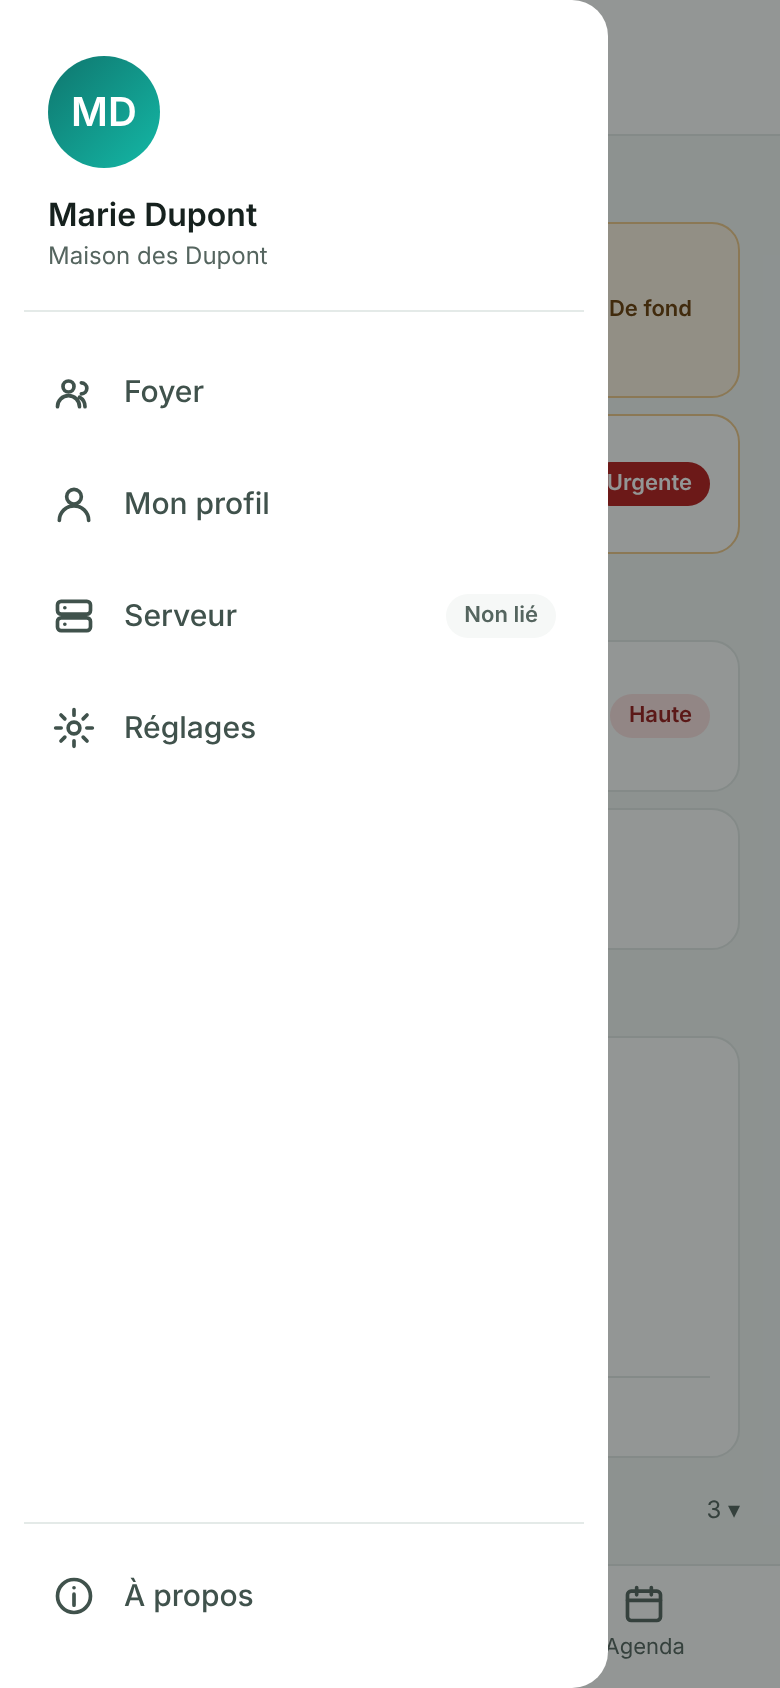
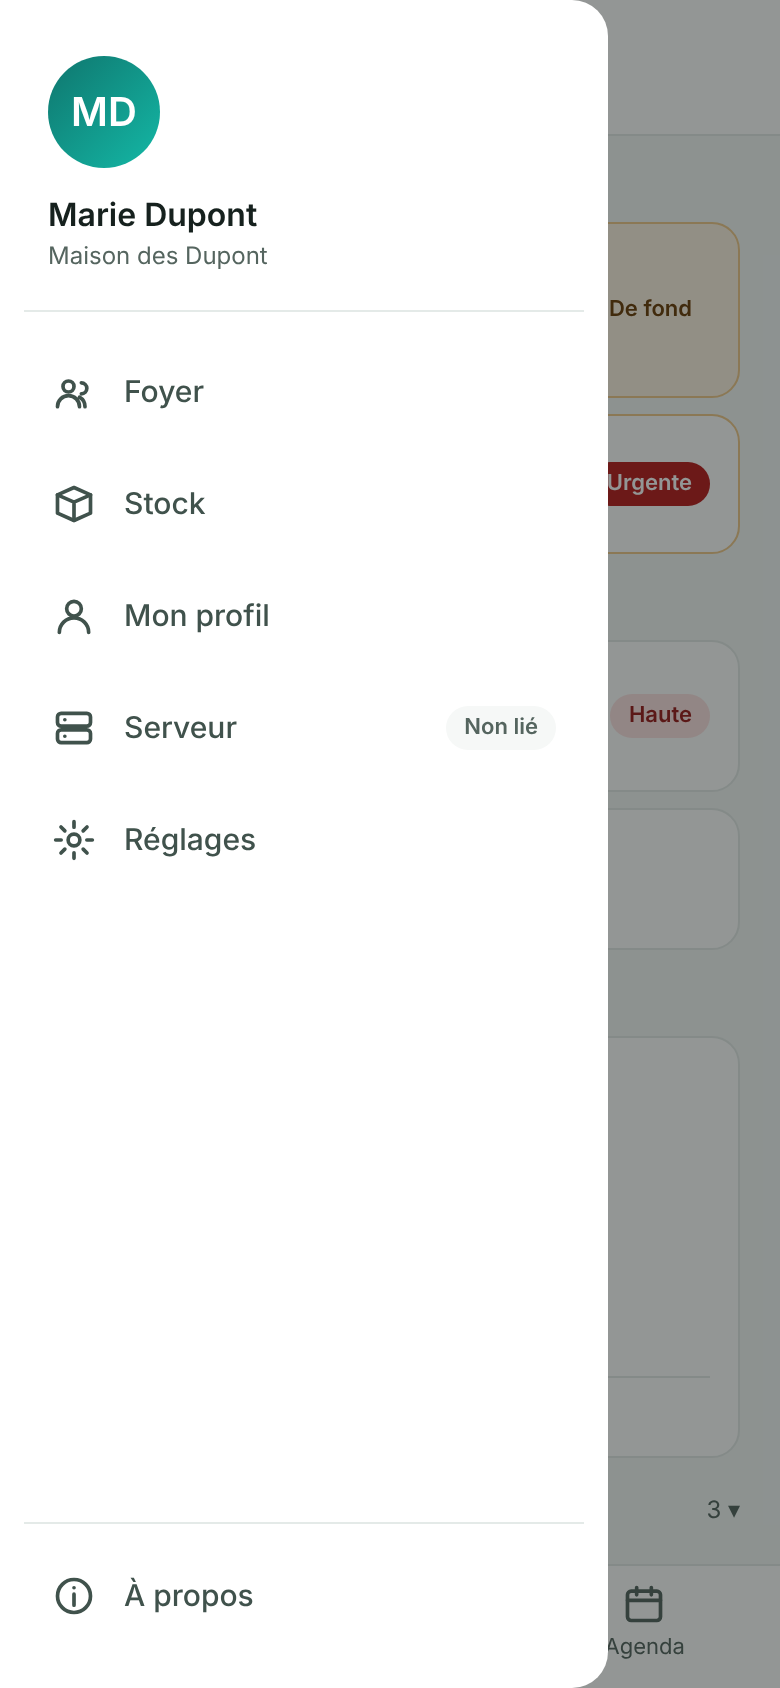
docs(maquettes): plugin Gestion de stock dans l'app — tableaux, déclarer une sortie
Claude-Session: https://claude.ai/code/session_01CwM8UZavZyFdh7jkANxEp5

diff --git a/docs/mockups/30-stock.html b/docs/mockups/30-stock.html
@@ -1,0 +1,30 @@
+<!doctype html>
+<html lang="fr"><head><meta charset="utf-8"><title>Stock</title><link rel="stylesheet" href="app.css"><style>
+.vig{flex:none;width:38px;height:38px;border-radius:10px;display:flex;align-items:center;justify-content:center;color:#fff}
+.vig.petite{width:26px;height:26px;border-radius:7px}
+.vig.vide{background:var(--surface-douce);border:1px dashed var(--trait-net);color:var(--gris)}
+.pas{width:32px;height:32px;border-radius:10px;border:1px solid var(--trait-net);display:flex;align-items:center;justify-content:center;font-weight:700;background:var(--surface)}
+.qte{min-width:24px;text-align:center;font-weight:700;font-size:16px}
+.qte.bas{color:var(--alerte)}
+.puces{display:flex;gap:8px;overflow:hidden}
+.puces span{flex:none;display:inline-flex;align-items:center;gap:7px;height:38px;padding:0 13px 0 6px;border-radius:999px;border:1px solid var(--trait-net);background:var(--surface);font-size:14px}
+.puces span.actif{border:2px solid var(--accent);background:var(--accent-doux);font-weight:600}
+.fab-large{position:absolute;right:20px;bottom:24px;height:56px;padding:0 20px;border-radius:18px;background:var(--accent);color:#fff;display:flex;align-items:center;gap:10px;font-weight:600;font-size:15px;box-shadow:0 6px 16px rgba(15,118,110,.35)}
+.barre-bas{flex:none;display:flex;align-items:center;gap:12px;padding:12px 20px 18px;background:var(--surface);border-top:1px solid var(--trait)}
+</style></head>
+<body style="position:relative">
+  <header class="entete">
+    <div class="ligne">
+      <svg viewBox="0 0 24 24" width="26" height="26" fill="none" stroke="currentColor" stroke-width="2" stroke-linecap="round" stroke-linejoin="round"><path d="M4 7h16M4 12h16M4 17h16"/></svg>
+      <div style="flex:1"><h1>Stock</h1></div>
+      <span class="bouton" style="min-height:44px;padding:0 14px">+ Article</span>
+    </div>
+  </header>
+  <div class="corps" style="gap:12px;padding-bottom:90px">
+    <div class="puces"><span class="actif"><span class="vig petite" style="background:#0F766E"><svg viewBox="0 0 24 24" width="14" height="14" fill="none" stroke="currentColor" stroke-width="2" stroke-linecap="round" stroke-linejoin="round"><ellipse cx="12" cy="5" rx="7" ry="2.5"/><path d="M5 5v14c0 1.4 3.1 2.5 7 2.5s7-1.1 7-2.5V5"/></svg></span>Garde-manger</span><span><span class="vig petite" style="background:#7C3AED"><svg viewBox="0 0 24 24" width="14" height="14" fill="none" stroke="currentColor" stroke-width="2" stroke-linecap="round" stroke-linejoin="round"><rect x="4" y="9" width="16" height="11" rx="3"/><path d="M9 9V6h6v3M12 3v3"/></svg></span>Salle de bain</span><span><span class="vig petite" style="background:#475569"><svg viewBox="0 0 24 24" width="14" height="14" fill="none" stroke="currentColor" stroke-width="2" stroke-linecap="round" stroke-linejoin="round"><path d="M14.7 6.3a4 4 0 0 0-5.4 5.4L3 18l3 3 6.3-6.3a4 4 0 0 0 5.4-5.4l-2.4 2.4-2.6-.4-.4-2.6z"/></svg></span>Bricolage</span></div>
+    <div class="filtres"><span class="actif">Tout · 6</span><span>À racheter · 2</span><span>Bientôt périmé · 2</span></div>
+    <div class="carte" style="padding:12px"><div class="ligne"><span class="vig" style="background:#78350F"><svg viewBox="0 0 24 24" width="18" height="18" fill="none" stroke="currentColor" stroke-width="2" stroke-linecap="round" stroke-linejoin="round"><path d="M4 8h13v6a5 5 0 0 1-5 5H9a5 5 0 0 1-5-5zM17 10h2a2 2 0 0 1 0 4h-2M8 3v2M12 3v2"/></svg></span><div style="flex:1;min-width:0"><h3>Café en grains</h3><p class="muet">Marque du torréfacteur</p></div><div style="display:flex;flex-direction:column;align-items:center;gap:2px"><div class="ligne" style="gap:6px"><span class="pas">−</span><span class="qte bas">1</span><span class="pas">+</span></div><span class="muet" style="font-size:11px">min 2</span></div></div></div><div class="carte" style="padding:12px"><div class="ligne"><span class="vig" style="background:linear-gradient(135deg,#d97706,#fbbf24)"></span><div style="flex:1;min-width:0"><h3>Huile d’olive</h3><p class="muet">Avril 2027</p></div><div style="display:flex;flex-direction:column;align-items:center;gap:2px"><div class="ligne" style="gap:6px"><span class="pas">−</span><span class="qte">2</span><span class="pas">+</span></div><span class="muet" style="font-size:11px">min 1</span></div></div></div><div class="carte" style="padding:12px"><div class="ligne"><span class="vig" style="background:#B91C1C"><svg viewBox="0 0 24 24" width="18" height="18" fill="none" stroke="currentColor" stroke-width="2" stroke-linecap="round" stroke-linejoin="round"><ellipse cx="12" cy="5" rx="7" ry="2.5"/><path d="M5 5v14c0 1.4 3.1 2.5 7 2.5s7-1.1 7-2.5V5"/></svg></span><div style="flex:1;min-width:0"><h3>Tomates pelées</h3><p class="muet" style="color:var(--alerte-encre)">Périment dans 9 jours</p></div><div style="display:flex;flex-direction:column;align-items:center;gap:2px"><div class="ligne" style="gap:6px"><span class="pas">−</span><span class="qte">6</span><span class="pas">+</span></div><span class="muet" style="font-size:11px">min 4</span></div></div></div><div class="carte" style="padding:12px"><div class="ligne"><span class="vig" style="background:#65A30D"><svg viewBox="0 0 24 24" width="18" height="18" fill="none" stroke="currentColor" stroke-width="2" stroke-linecap="round" stroke-linejoin="round"><path d="M12 7c-2-2-7-1.5-7 4 0 5 3 9 5 9 1 0 1.5-.5 2-.5s1 .5 2 .5c2 0 5-4 5-9 0-5.5-5-6-7-4zM12 7c0-2 1-4 3-4"/></svg></span><div style="flex:1;min-width:0"><h3>Compote</h3><p class="muet" style="color:var(--alerte-encre)">Périmée depuis 2 jours</p></div><div style="display:flex;flex-direction:column;align-items:center;gap:2px"><div class="ligne" style="gap:6px"><span class="pas">−</span><span class="qte bas">3</span><span class="pas">+</span></div><span class="muet" style="font-size:11px">min 6</span></div></div></div><div class="carte" style="padding:12px"><div class="ligne"><span class="vig vide"><svg viewBox="0 0 24 24" width="16" height="16" fill="none" stroke="currentColor" stroke-width="2" stroke-linecap="round" stroke-linejoin="round"><path d="M3 7l9-4 9 4v10l-9 4-9-4z"/><path d="M3 7l9 4 9-4M12 11v10"/></svg></span><div style="flex:1;min-width:0"><h3>Sel fin</h3></div><div style="display:flex;flex-direction:column;align-items:center;gap:2px"><div class="ligne" style="gap:6px"><span class="pas">−</span><span class="qte">1</span><span class="pas">+</span></div></div></div></div>
+  </div>
+  <!-- Le geste le plus fréquent : ce qui sort. Il a son bouton à lui. -->
+  <div class="fab-large"><svg viewBox="0 0 24 24" width="22" height="22" fill="none" stroke="currentColor" stroke-width="2" stroke-linecap="round" stroke-linejoin="round"><path d="M3 7l9-4 9 4v4"/><path d="M3 7v10l9 4 4-1.8M3 7l9 4 9-4M12 11v10"/><path d="M16 17h6M19 14l3 3-3 3"/></svg>Déclarer une sortie</div>
+</body></html>

diff --git a/docs/mockups/31-stock-sortie.html b/docs/mockups/31-stock-sortie.html
@@ -1,0 +1,32 @@
+<!doctype html>
+<html lang="fr"><head><meta charset="utf-8"><title>Déclarer une sortie</title><link rel="stylesheet" href="app.css"><style>
+.vig{flex:none;width:38px;height:38px;border-radius:10px;display:flex;align-items:center;justify-content:center;color:#fff}
+.vig.petite{width:26px;height:26px;border-radius:7px}
+.vig.vide{background:var(--surface-douce);border:1px dashed var(--trait-net);color:var(--gris)}
+.pas{width:32px;height:32px;border-radius:10px;border:1px solid var(--trait-net);display:flex;align-items:center;justify-content:center;font-weight:700;background:var(--surface)}
+.qte{min-width:24px;text-align:center;font-weight:700;font-size:16px}
+.qte.bas{color:var(--alerte)}
+.puces{display:flex;gap:8px;overflow:hidden}
+.puces span{flex:none;display:inline-flex;align-items:center;gap:7px;height:38px;padding:0 13px 0 6px;border-radius:999px;border:1px solid var(--trait-net);background:var(--surface);font-size:14px}
+.puces span.actif{border:2px solid var(--accent);background:var(--accent-doux);font-weight:600}
+.fab-large{position:absolute;right:20px;bottom:24px;height:56px;padding:0 20px;border-radius:18px;background:var(--accent);color:#fff;display:flex;align-items:center;gap:10px;font-weight:600;font-size:15px;box-shadow:0 6px 16px rgba(15,118,110,.35)}
+.barre-bas{flex:none;display:flex;align-items:center;gap:12px;padding:12px 20px 18px;background:var(--surface);border-top:1px solid var(--trait)}
+</style></head>
+<body>
+  <header class="entete">
+    <div class="ligne">
+      <span style="font-size:20px;color:var(--gris)">×</span>
+      <h1 style="font-size:20px">Déclarer une sortie</h1>
+    </div>
+  </header>
+  <div class="corps" style="gap:10px">
+    <p class="muet" style="font-size:14px">Cochez ce qui sort — consommé, utilisé, jeté — et combien.</p>
+    <div class="puces"><span class="actif"><span class="vig petite" style="background:#0F766E"><svg viewBox="0 0 24 24" width="14" height="14" fill="none" stroke="currentColor" stroke-width="2" stroke-linecap="round" stroke-linejoin="round"><ellipse cx="12" cy="5" rx="7" ry="2.5"/><path d="M5 5v14c0 1.4 3.1 2.5 7 2.5s7-1.1 7-2.5V5"/></svg></span>Garde-manger</span><span><span class="vig petite" style="background:#7C3AED"><svg viewBox="0 0 24 24" width="14" height="14" fill="none" stroke="currentColor" stroke-width="2" stroke-linecap="round" stroke-linejoin="round"><rect x="4" y="9" width="16" height="11" rx="3"/><path d="M9 9V6h6v3M12 3v3"/></svg></span>Salle de bain</span><span><span class="vig petite" style="background:#475569"><svg viewBox="0 0 24 24" width="14" height="14" fill="none" stroke="currentColor" stroke-width="2" stroke-linecap="round" stroke-linejoin="round"><path d="M14.7 6.3a4 4 0 0 0-5.4 5.4L3 18l3 3 6.3-6.3a4 4 0 0 0 5.4-5.4l-2.4 2.4-2.6-.4-.4-2.6z"/></svg></span>Bricolage</span></div>
+    <div class="carte" style="padding:12px;border-color:var(--accent-trait)"><div class="ligne"><div class="case cochee">✓</div><span class="vig" style="background:#78350F"><svg viewBox="0 0 24 24" width="18" height="18" fill="none" stroke="currentColor" stroke-width="2" stroke-linecap="round" stroke-linejoin="round"><path d="M4 8h13v6a5 5 0 0 1-5 5H9a5 5 0 0 1-5-5zM17 10h2a2 2 0 0 1 0 4h-2M8 3v2M12 3v2"/></svg></span><div style="flex:1;min-width:0"><h3>Café en grains</h3><p class="muet">En stock : 1</p></div><div class="ligne" style="gap:6px"><span class="pas">−</span><span class="qte">1</span><span class="pas">+</span></div></div></div>
+    <div class="carte" style="padding:12px;border-color:var(--accent-trait)"><div class="ligne"><div class="case cochee">✓</div><span class="vig" style="background:#B91C1C"><svg viewBox="0 0 24 24" width="18" height="18" fill="none" stroke="currentColor" stroke-width="2" stroke-linecap="round" stroke-linejoin="round"><ellipse cx="12" cy="5" rx="7" ry="2.5"/><path d="M5 5v14c0 1.4 3.1 2.5 7 2.5s7-1.1 7-2.5V5"/></svg></span><div style="flex:1;min-width:0"><h3>Tomates pelées</h3><p class="muet">En stock : 6</p></div><div class="ligne" style="gap:6px"><span class="pas">−</span><span class="qte">2</span><span class="pas">+</span></div></div></div>
+    <div class="carte" style="padding:12px;border-color:var(--accent-trait)"><div class="ligne"><div class="case cochee">✓</div><span class="vig" style="background:#65A30D"><svg viewBox="0 0 24 24" width="18" height="18" fill="none" stroke="currentColor" stroke-width="2" stroke-linecap="round" stroke-linejoin="round"><path d="M12 7c-2-2-7-1.5-7 4 0 5 3 9 5 9 1 0 1.5-.5 2-.5s1 .5 2 .5c2 0 5-4 5-9 0-5.5-5-6-7-4zM12 7c0-2 1-4 3-4"/></svg></span><div style="flex:1;min-width:0"><h3>Compote</h3><p class="muet">En stock : 3</p></div><div class="ligne" style="gap:6px"><span class="pas">−</span><span class="qte">3</span><span class="pas">+</span></div></div></div>
+    <div class="carte" style="padding:12px"><div class="ligne"><div class="case"></div><span class="vig" style="background:linear-gradient(135deg,#d97706,#fbbf24)"></span><div style="flex:1;min-width:0"><h3>Huile d’olive</h3><p class="muet">En stock : 2</p></div></div></div>
+    <div class="encadre alerte">Café en grains et Tomates pelées passeront sous leur minimum.</div>
+  </div>
+  <div class="barre-bas"><span class="muet" style="flex:1;font-size:14px">3 articles · 6 unités</span><span class="bouton primaire" style="min-height:48px;padding:0 20px">Valider la sortie</span></div>
+</body></html>

diff --git a/docs/mockups/11-volet.html b/docs/mockups/11-volet.html
@@ -117,6 +117,7 @@
     <p class="muet">Maison des Dupont</p>
   </div>
   <div class="entree"><svg viewBox="0 0 24 24" width="22" height="22" fill="none" stroke="currentColor" stroke-width="2" stroke-linecap="round"><circle cx="9" cy="9" r="3"/><path d="M3 20a6 6 0 0 1 12 0M16 7a3 3 0 0 1 0 6M18 20a6 6 0 0 0-3-5.2"/></svg>Foyer</div>
+  <div class="entree"><svg viewBox="0 0 24 24" width="22" height="22" fill="none" stroke="currentColor" stroke-width="2" stroke-linecap="round" stroke-linejoin="round"><path d="M3 7l9-4 9 4v10l-9 4-9-4z"/><path d="M3 7l9 4 9-4M12 11v10"/></svg>Stock</div>
   <div class="entree"><svg viewBox="0 0 24 24" width="22" height="22" fill="none" stroke="currentColor" stroke-width="2" stroke-linecap="round"><circle cx="12" cy="8" r="4"/><path d="M4 21a8 8 0 0 1 16 0"/></svg>Mon profil</div>
   <div class="entree"><svg viewBox="0 0 24 24" width="22" height="22" fill="none" stroke="currentColor" stroke-width="2" stroke-linecap="round"><rect x="3" y="4" width="18" height="7" rx="2"/><rect x="3" y="13" width="18" height="7" rx="2"/><path d="M7 7.5h.01M7 16.5h.01"/></svg>Serveur<span class="etiquette neutre" style="margin-left:auto">Non lié</span></div>
   <div class="entree"><svg viewBox="0 0 24 24" width="22" height="22" fill="none" stroke="currentColor" stroke-width="2" stroke-linecap="round"><circle cx="12" cy="12" r="3.2"/><path d="M12 2v3M12 19v3M2 12h3M19 12h3M4.9 4.9l2.1 2.1M17 17l2.1 2.1M4.9 19.1 7 17M17 7l2.1-2.1"/></svg>Réglages</div>

diff --git a/docs/mockups/README.md b/docs/mockups/README.md
@@ -44,6 +44,8 @@ coupée passerait sinon pour correcte.
 | `27-maj-bandeau.html` | Une version plus récente existe : bandeau sur l'accueil |
 | `28-maj-telecharger.html` | Mise à jour : ce qui change, d'où elle vient, télécharger |
 | `29-maj-installer.html` | Téléchargée et vérifiée : installer, Android confirme |
+| `30-stock.html` | Plugin **Gestion de stock** : les tableaux et leurs articles, quantités à portée de pouce |
+| `31-stock-sortie.html` | Déclarer une sortie : un ou plusieurs articles d'un coup |
 
 ## Ce que ces maquettes décident
 
